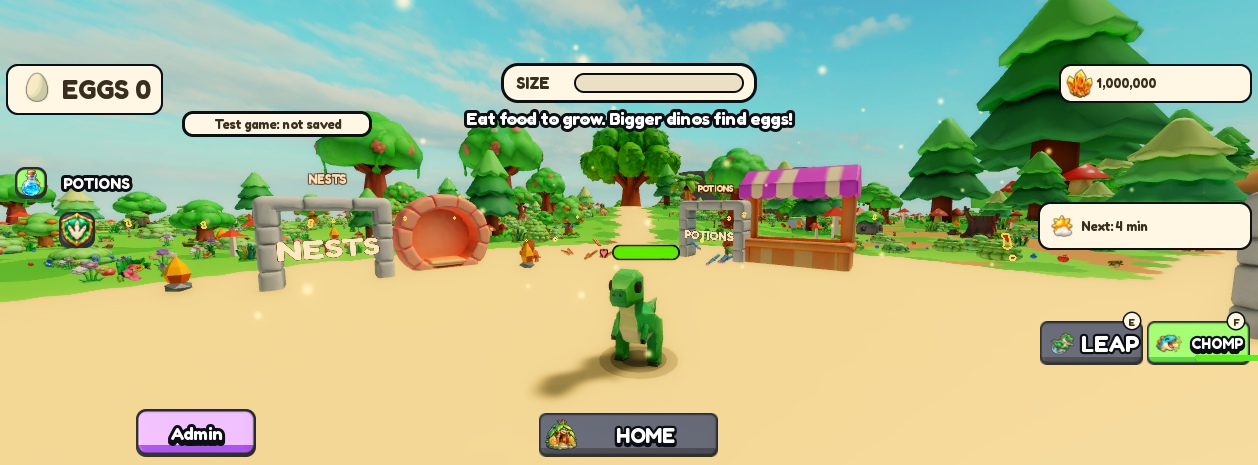
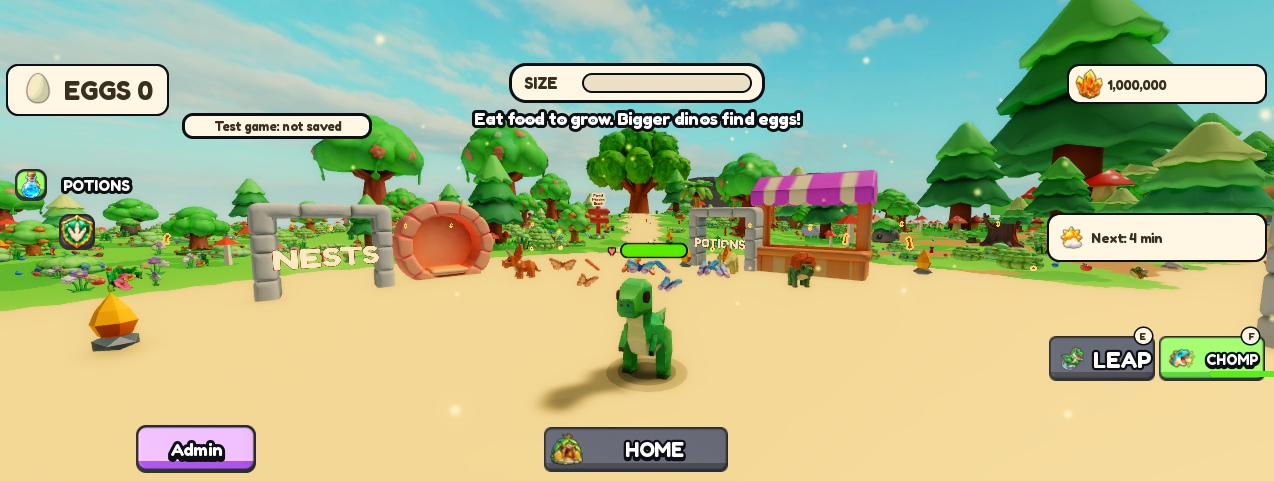
BD-1244 lead review: three spawn babies in the first frame, bigger plaza butterflies, one word per plaza sign

diff --git a/tools/verify_vegetation_v2.py b/tools/verify_vegetation_v2.py
@@ -14,7 +14,7 @@ Runs the REAL VegetationV2 and the World V3 / toon placement in the pinned Luau 
   * thin() keeps only ground cover thinned (every other layer and its order untouched) at about CoverKeep, and the island has fewer parts.
 Source guards: the flag ships false, is pinned off in the default profile, ON in the playtest profile and in the rehearsal list; Arena
 uses the v2 visual only through veg2Prop and thins only with the flag; the loader fetches the family only with the flag; Bootstrap.client
-is untouched; the plaza sign word is sized in studs (BD-1239 NESTS / POTIONS overlap).
+is untouched; the plaza sign shows its word once, on the board (BD-1239 overlap, BD-1244 lead review).
 Usage: python tools/verify_vegetation_v2.py --runner luau.exe"""
 from pathlib import Path
 import argparse
@@ -137,8 +137,8 @@ def source_checks():
     if 'Veg2' in read('src/client/Bootstrap.client.luau') or 'Vegetation' in read('src/client/Bootstrap.client.luau'):
         errors.append('Bootstrap.client must not change')
     plaza = read('src/server/PlazaHub.luau')
-    if 'UDim2.fromScale(Layout.Sign.size[1]' not in plaza or 'UDim2.fromOffset(b.width' in plaza:
-        errors.append('the plaza sign word must be sized in studs')
+    if 'BillboardGui' in plaza or 'UDim2.fromOffset(b.width' in plaza:  # BD-1244 lead review: one word per stall (no floating word)
+        errors.append('the plaza sign must show its word once (on the board, no floating BillboardGui)')
     registry = read('docs/77-asset-registry.md')
     veg = read('src/shared/VegetationV2.luau')
     items = re.findall(r'(veg2_\w+) = \{assetId = "(\d+)", tris = \d+, ref = "(\w+)"', veg)

diff --git a/docs/115-decisions-log.md b/docs/115-decisions-log.md
@@ -849,7 +849,7 @@ Owner answers to the reference sheets in `docs/evidence/2026-11-14-owner-questio
 
 ## BD-1244 + BD-1247: life on the island and warmer light (2026-11-16, LEAD decision, owner delegated 2026-10-16)
 - **Owner:** spawn screenshot "game still looks empty", then "Yes, build all" (rows in PR #621). Flags `IslandLifeEnabled`, `WarmLightEnabled`: off by default, ON in the playtest profile (docs/157 standing rule).
-- **Spawn herd on the plaza:** the nearest grass is 72+ studs from spawn, so herds beside the paths read as specks in the owner's spawn view. Two babies (triceratops, parasaurolophus) wander open plaza ground about 40 studs out either side of the main path, plus two butterfly flocks. Not picked: babies only on grass (spawn view stays empty), bigger babies (they would look like grown dinos). Overturn: empty `IslandLife.SpawnHerd` and the two plaza flocks in `flockSpots`.
+- **Spawn herd on the plaza:** the nearest grass is 72+ studs from spawn, so herds beside the paths read as specks in the owner's spawn view. Three babies (triceratops, stegosaurus, parasaurolophus, 0.7 size after the lead review) wander open plaza ground 40-48 studs out either side of the main path, plus two 1.5x butterfly flocks 16-22 studs out. Plaza signs show their word once (the floating word above each stone sign is removed, lead review). Not picked: babies only on grass (spawn view stays empty), bigger babies (they would look like grown dinos). Overturn: empty `IslandLife.SpawnHerd` and the two plaza flocks in `flockSpots`.
 - **Herbivores only, client-only:** the babies are never predator species and never server objects (nothing to catch, hit or count). Not picked: server NPC babies (cost, replication, combat rules).
 - **Phone budget:** desktop at most 8 babies, 4 flocks of 4, 3 dragonflies, 3 gulls (94 parts); phone 4 / 2x3 / 2 / 2 (46 parts); culled at 150 studs, what is in front of the camera first. The island is already over the docs/107 ~3,000 parts (BD-1222); this adds about 2%.
 - **Light:** its own ColorCorrection / Bloom / SunRays stacked on the weather's (saturation +.2, contrast +.08, warm tint 255/239/216, bloom .4 at threshold .86, rays .06), faded out in any other weather and off the island; the first numbers (+.12) were too faint in the Studio A/B. Motes: the uploaded glowPlate and ashFlake sprites, 10/s desktop, 5/s phone. PROVISIONAL until the owner sees it.

diff --git a/docs/evidence/2026-11-16-world-fill-life/README.md b/docs/evidence/2026-11-16-world-fill-life/README.md
@@ -21,10 +21,14 @@ Owner 2026-11-16, spawn screenshot: "game still looks empty", then "Yes, build a
 ## Numbers
 | | before (main) | after |
 |---|---|---|
-| client parts within 300 studs of spawn (XZ) | 4,643 | about 4,730 (4,714-4,763 as life moves) |
+| client parts within 300 studs of spawn (XZ) | 4,643 | about 4,730 (4,714-4,763 as life moves); 4,593 after merging #623 (BD-1245/1246 dropped ground cover) |
 | life parts alive (desktop caps: 8 babies, 4 flocks of 4, 3 dragonflies, 3 gulls) | 0 | 67-84 measured, 94 max |
 | life parts on a phone (caps 4 / 2x3 / 2 / 2) | 0 | 46 max (offline, tools/verify_island_life.py) |
 | ParticleEmitters with Rate > 0 | 18 | 19 |
 | live particles (Rate x mean lifetime, all emitters) | about 239 | about 339 (motes +100 desktop; phone +50, tablet +75) |
 
 Still above the docs/107 phone rule of thumb (about 3,000 parts in range, BD-1222); this adds about 2%. No phone check yet.
+
+## Lead review 2026-11-16 (before the PR)
+- Spawn view: three babies (triceratops, stegosaurus, parasaurolophus at 0.7 size) 40-48 studs from spawn either side of the main path, and the two plaza butterfly flocks 1.5x bigger, 16-22 studs from spawn: all in the spawn frame (`after-spawn.jpg`, Studio screen positions checked).
+- NESTS and POTIONS showed twice: the word on the stone sign plus a small floating word above it (PlazaHub `SignBillboard`, already on main, BD-1221/BD-1239). The floating word is removed on the plaza; each stall shows its word once (the cave home's own signs are unchanged).
